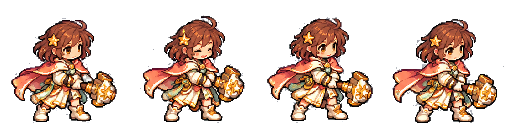
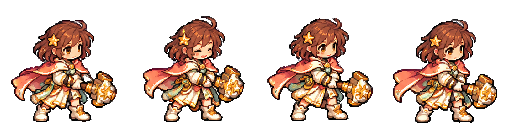
fix(assets): 人物抠图边缘清理——alpha硬二值化+封闭棋盘格洪泛清除+白边光晕重绘，新增 clean_sprite_edges.py 并写入规范§4.3

diff --git a/远征/tools/clean_sprite_edges.py b/远征/tools/clean_sprite_edges.py
@@ -1,0 +1,174 @@
+#!/usr/bin/env python3
+"""Clean AI-cutout sprite sheets: hard alpha, pocket removal, edge decontamination.
+
+Pixel-art cutout pipeline (per 远征/docs/开发规范.md §4.2):
+small pixel sprites must keep hard dark-brown outlines, so alpha is binarized
+and the light-gray checkerboard halo is re-colored from interior neighbors
+instead of being softened.
+
+Usage: python tools/clean_sprite_edges.py <file.png> [<file.png> ...]
+"""
+
+from __future__ import annotations
+
+import sys
+from collections import deque
+from pathlib import Path
+
+from PIL import Image
+
+ALPHA_KEEP = 128        # alpha >= keep -> opaque; below -> transparent
+NEUTRAL_MIN = 150       # light gray checkerboard tone floor
+NEUTRAL_RANGE = 14      # channel spread tolerated for "neutral gray"
+
+
+def _is_neutral(rgb: tuple[int, int, int]) -> bool:
+    r, g, b = rgb
+    return min(r, g, b) >= NEUTRAL_MIN and max(r, g, b) - min(r, g, b) <= NEUTRAL_RANGE
+
+
+def _neighbors(x: int, y: int, w: int, h: int):
+    if x:
+        yield x - 1, y
+    if x + 1 < w:
+        yield x + 1, y
+    if y:
+        yield x, y - 1
+    if y + 1 < h:
+        yield x, y + 1
+
+
+def binarize_alpha(px, w: int, h: int) -> None:
+    for y in range(h):
+        for x in range(w):
+            r, g, b, a = px[x, y]
+            px[x, y] = (r, g, b, 255 if a >= ALPHA_KEEP else 0)
+
+
+def flood_neutral_from_transparent(px, w: int, h: int) -> int:
+    """Remove light-neutral pixels connected to transparent areas.
+
+    Phase 1 seeds from the image border; phase 2 repeats from every cleared
+    pixel so checkerboard pockets enclosed by the character are also caught
+    once any gap opens. Iterates to a fixed point.
+    """
+    cleared = 0
+    queue: deque[tuple[int, int]] = deque()
+    seen = bytearray(w * h)
+
+    def try_enqueue(x: int, y: int) -> None:
+        i = y * w + x
+        if seen[i]:
+            return
+        r, g, b, a = px[x, y]
+        if a == 0:
+            seen[i] = 1
+            queue.append((x, y))
+        elif _is_neutral((r, g, b)):
+            seen[i] = 1
+            queue.append((x, y))
+
+    for x in range(w):
+        try_enqueue(x, 0)
+        try_enqueue(x, h - 1)
+    for y in range(h):
+        try_enqueue(0, y)
+        try_enqueue(w - 1, y)
+
+    while queue:
+        x, y = queue.popleft()
+        r, g, b, a = px[x, y]
+        if a != 0:
+            px[x, y] = (r, g, b, 0)
+            cleared += 1
+        for nx, ny in _neighbors(x, y, w, h):
+            try_enqueue(nx, ny)
+    return cleared
+
+
+def erode_isolated_neutral(px, w: int, h: int) -> int:
+    """Remove neutral pixels whose opaque neighborhood is mostly transparent/
+    neutral — leftover checker specks fully enclosed by the sprite."""
+    removed = 0
+    changed = True
+    while changed:
+        changed = False
+        kill: list[tuple[int, int]] = []
+        for y in range(h):
+            for x in range(w):
+                r, g, b, a = px[x, y]
+                if a == 0 or not _is_neutral((r, g, b)):
+                    continue
+                solid = 0
+                for nx, ny in _neighbors(x, y, w, h):
+                    nr, ng, nb, na = px[nx, ny]
+                    if na != 0 and not _is_neutral((nr, ng, nb)):
+                        solid += 1
+                if solid <= 1:      # no real sprite contact -> speck
+                    kill.append((x, y))
+        for x, y in kill:
+            r, g, b, _ = px[x, y]
+            px[x, y] = (r, g, b, 0)
+            removed += 1
+            changed = True
+    return removed
+
+
+def decontaminate_edges(px, w: int, h: int) -> int:
+    """Re-color opaque edge pixels (touching transparency) from their
+    non-edge opaque neighbors — kills the white/gray halo without eating
+    legitimately light sprite parts (their neighbors share the same color)."""
+    edge: list[tuple[int, int]] = []
+    for y in range(h):
+        for x in range(w):
+            if px[x, y][3] == 0:
+                continue
+            if any(px[nx, ny][3] == 0 for nx, ny in _neighbors(x, y, w, h)):
+                edge.append((x, y))
+    edge_set = set(edge)
+    fixed = 0
+    for x, y in edge:
+        r, g, b, a = px[x, y]
+        acc = [0, 0, 0]
+        n = 0
+        for nx, ny in _neighbors(x, y, w, h):
+            if (nx, ny) in edge_set or px[nx, ny][3] == 0:
+                continue
+            nr, ng, nb, _ = px[nx, ny]
+            acc[0] += nr
+            acc[1] += ng
+            acc[2] += nb
+            n += 1
+        if n == 0:
+            continue
+        interior = (acc[0] // n, acc[1] // n, acc[2] // n)
+        # only repaint when the edge pixel is much lighter than the interior
+        # (halo), keep it when it is genuinely light sprite content
+        if sum((r, g, b)) - sum(interior) > 90:
+            px[x, y] = (interior[0], interior[1], interior[2], 255)
+            fixed += 1
+    return fixed
+
+
+def clean(path: Path) -> None:
+    im = Image.open(path).convert("RGBA")
+    px = im.load()
+    w, h = im.size
+    binarize_alpha(px, w, h)
+    flooded = flood_neutral_from_transparent(px, w, h)
+    eroded = erode_isolated_neutral(px, w, h)
+    repainted = decontaminate_edges(px, w, h)
+    im.save(path)
+    print(f"{path.name}: flood={flooded} pocket={eroded} halo_repaint={repainted}")
+
+
+def main() -> None:
+    if len(sys.argv) < 2:
+        print(__doc__)
+        sys.exit(1)
+    for arg in sys.argv[1:]:
+        clean(Path(arg))
+
+
+if __name__ == "__main__":
+    main()

diff --git a/远征/docs/开发规范.md b/远征/docs/开发规范.md
@@ -129,7 +129,8 @@
 ```
 提示词总库复制提示词 → AI 生图（Seedream/SDXL）
 → 背景去除（remove.bg 等，见 4.2）
-→ 尺寸/透明校验（4.3）
+→ 边缘清理（tools/clean_sprite_edges.py，见 4.3）
+→ 尺寸/透明校验（4.4）
 → sprite sheet 切帧（tools/normalize_sprite_sheet.py）
 → 按提示词 id 命名入库 res://image/<类别>/ → Godot 导入(.import 自动)
 → git add 入库
@@ -147,7 +148,17 @@
 
 **关键约定**：像素风素材（tile/icon/精灵帧）的深棕硬边轮廓是风格锚点——**remove.bg 类 AI 抠图会平滑边缘破坏像素感，小图一律阈值/手动抠**；remove.bg 只用于 512 级大图（母图/立绘/整幅卡面），且抠完检查轮廓是否被软化。
 
-### 4.3 入库校验（每张必查）
+### 4.3 边缘清理（tools/clean_sprite_edges.py，AI 抠图后必跑）
+
+AI 抠图/棋盘格去除后常见三类残留，该脚本一次处理：
+
+1. **半透明毛边**（0<alpha<255）→ 硬二值化（≥128 保留，其余清空），像素风必须硬边
+2. **封闭棋盘格残留**（被角色包围、边界 flood fill 够不着的灰格）→ 迭代洪泛 + 孤立中性色腐蚀
+3. **浅灰白边光晕**（贴透明边的不透光浅灰像素）→ 用内部邻居颜色重绘（decontamination），白色内容（如霜语白发）因邻居同色不受影响
+
+用法：`python tools/clean_sprite_edges.py <png>...`（原地处理）。验收：分析指标 semi=0、残留灰格≈0，且在**深色背景**上目检无光晕。
+
+### 4.4 入库校验（每张必查）
 
 - [ ] 透明背景（PNG-32，边缘无白/黑杂边）
 - [ ] 尺寸与提示词规格一致（48/64/96/192/256/512 档）
